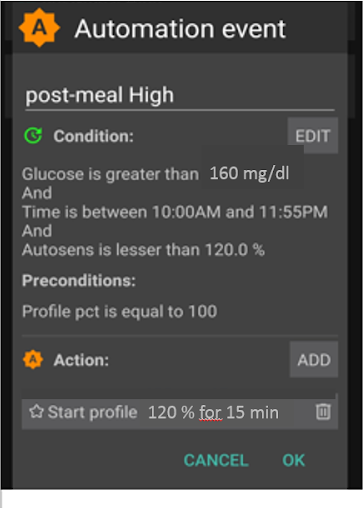
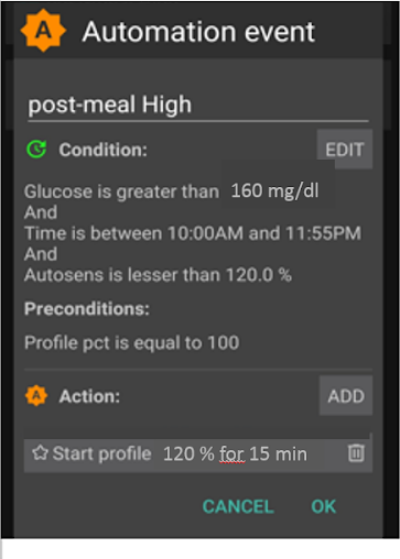
adjust image sizes

diff --git a/docs/EN/Usage/FullClosedLoop.md b/docs/EN/Usage/FullClosedLoop.md
@@ -226,7 +226,7 @@ For exceptional meals, or to lower it if sports follow, the iob threshold can ra
 
 Automation(#3),”iobTH reached => SMBs off”, is defined to end (or pause, until another wave of carb-related rise hits) the aggressive SMB boosting.
 
-![iob >5.5...111 TT = SMBs off 16m](../images/fullClosedLoop03.png)
+![iob >5.5...111 TT = SMBs off 16m](../images/fullClosedLoop04.png)
 
 Automation #3
 
@@ -254,11 +254,11 @@ Both, you with defining your meal spectrum and settings (notably, iobTH), and th
 
 In case, after a “rich” meal, a long-lasting stagnation with **high glucose** value is seen, Automation #6 (below, left),"post-meal High”, helps deal with fatty acid resistance: After multi-course meals, large greasy pizza, raclette evening, the glucose curve can form two humps or, very often, an elongated high plateau.
 
-![iob >5.5...111 TT = SMBs off 16m](../images/fullClosedLoop04.png)
+![iob >5.5...111 TT = SMBs off 16m](../images/fullClosedLoop05.png)
 
 Automation #4
 
-![iob >5.5...111 TT = SMBs off 16m](../images/fullClosedLoop05.png)
+![iob >5.5...111 TT = SMBs off 16m](../images/fullClosedLoop06.png)
 
 Automation #5
 
